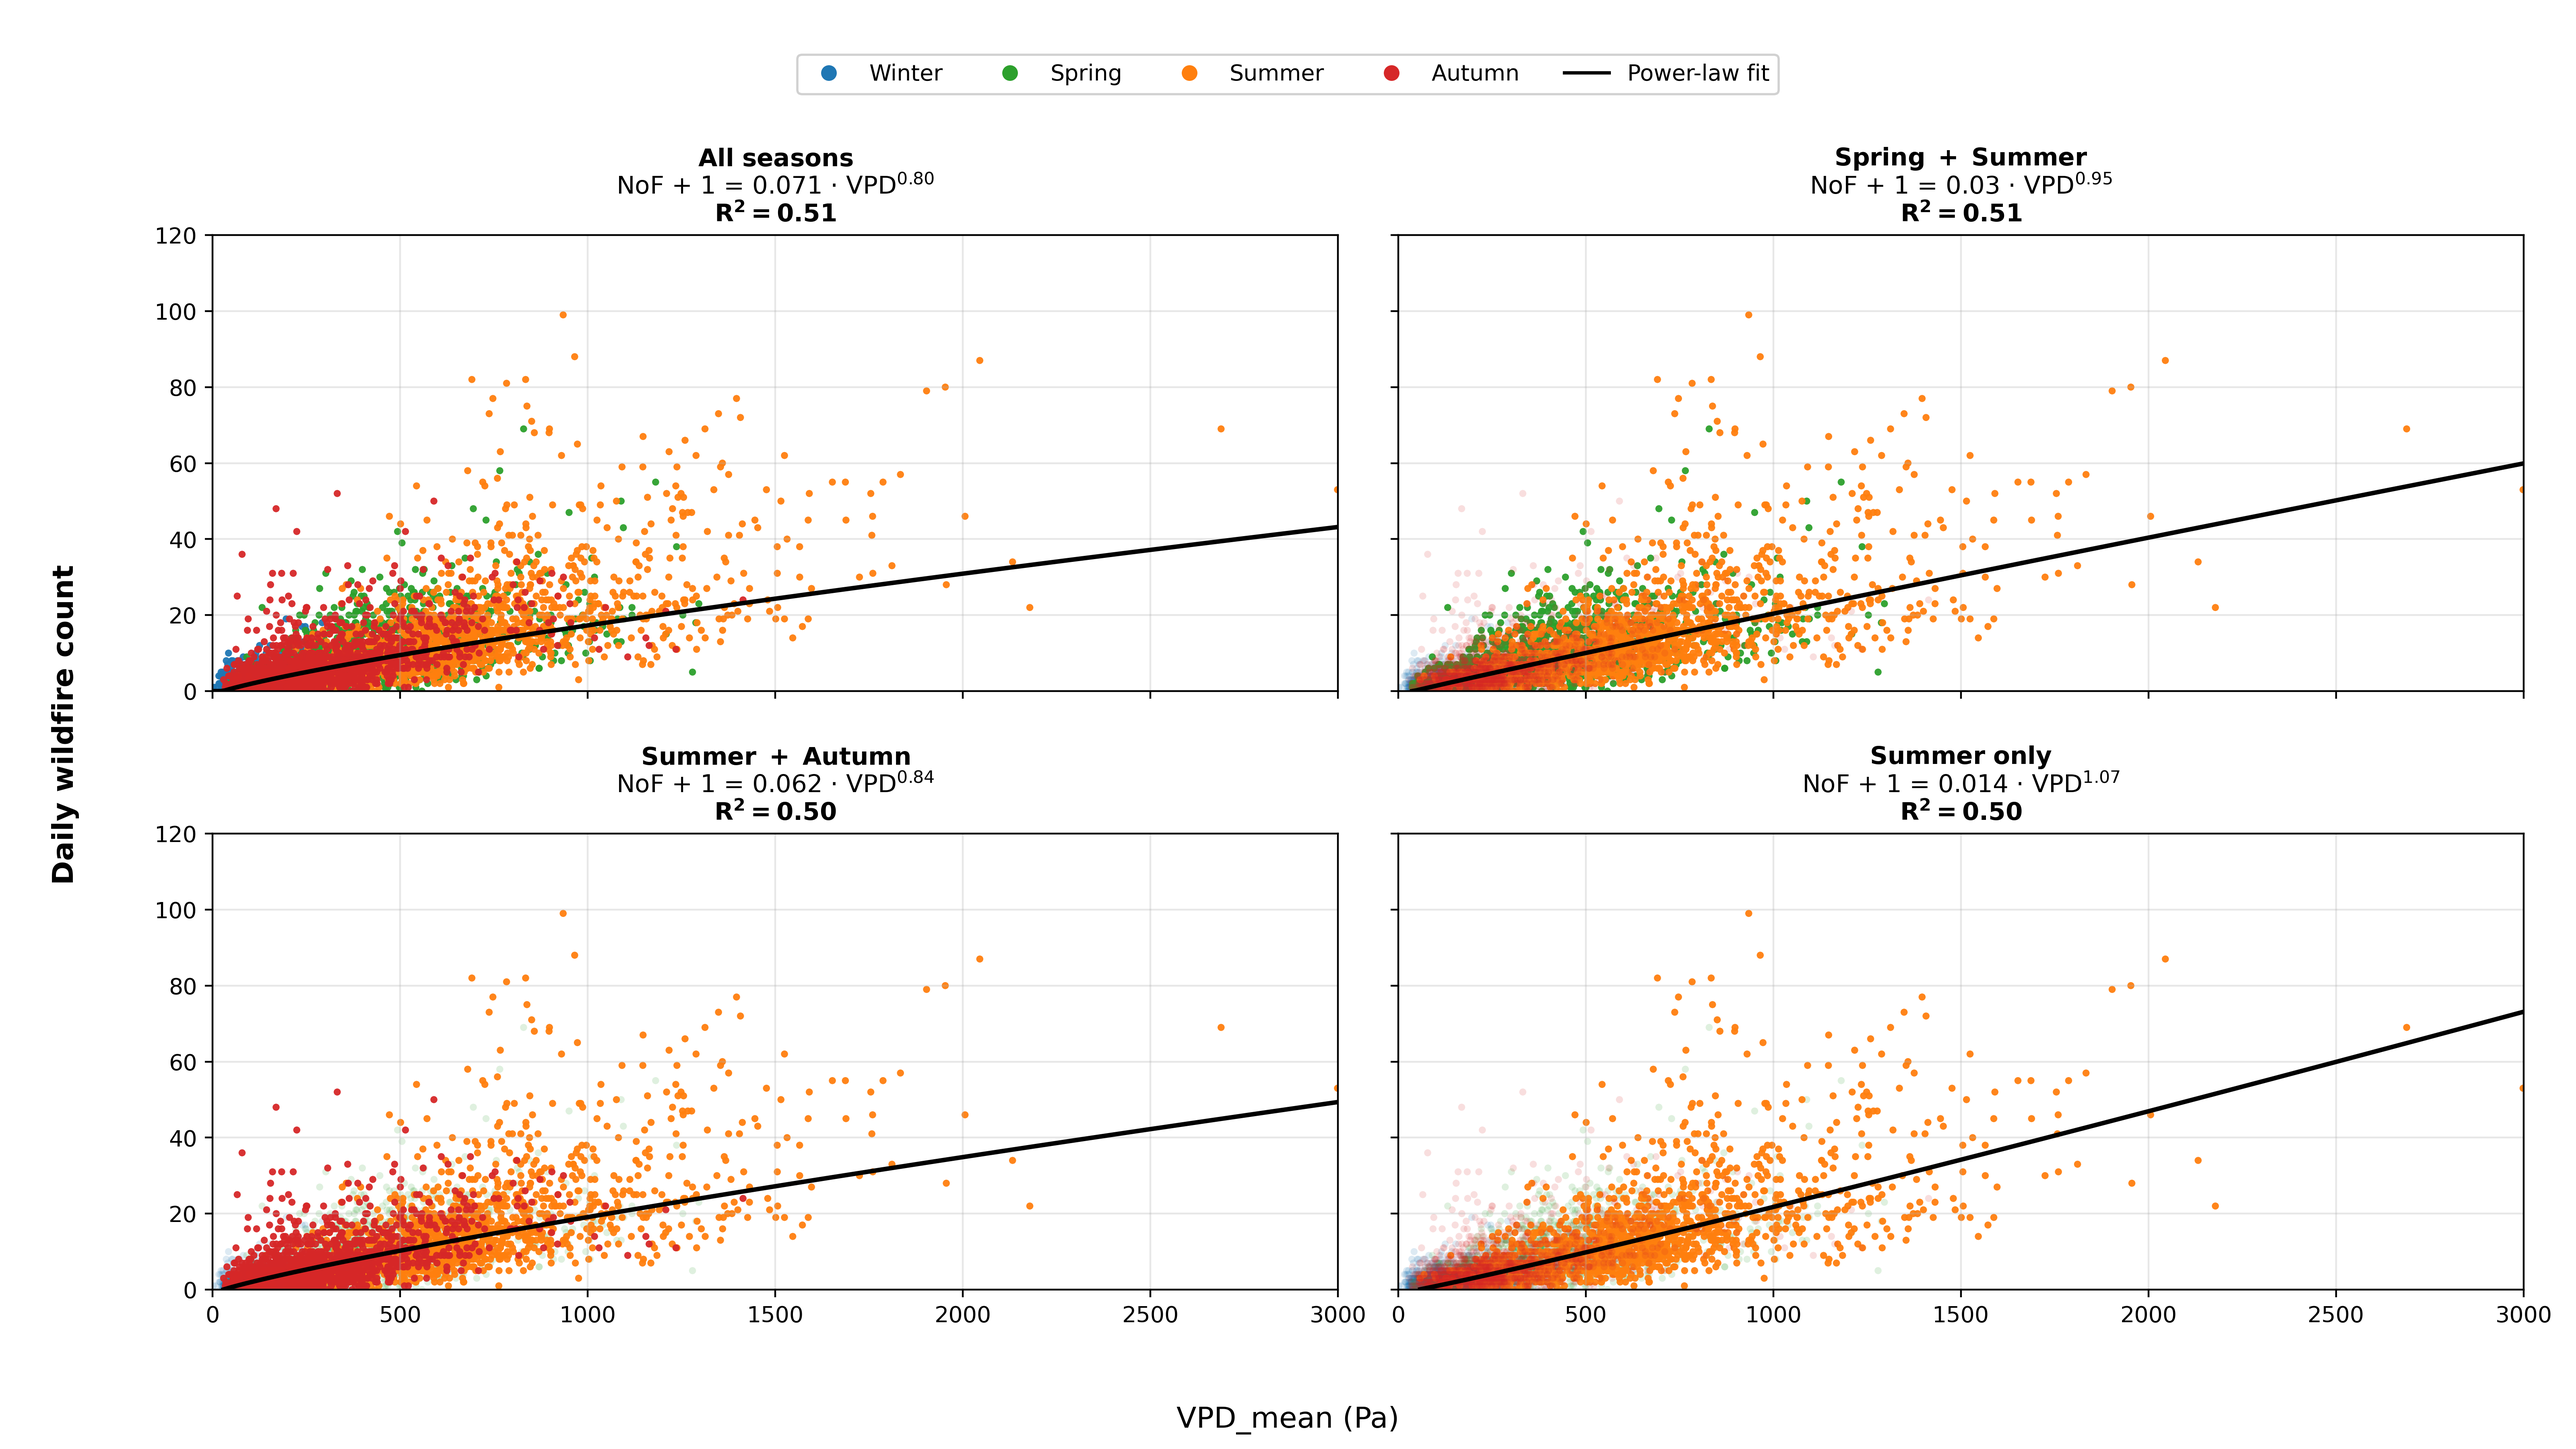
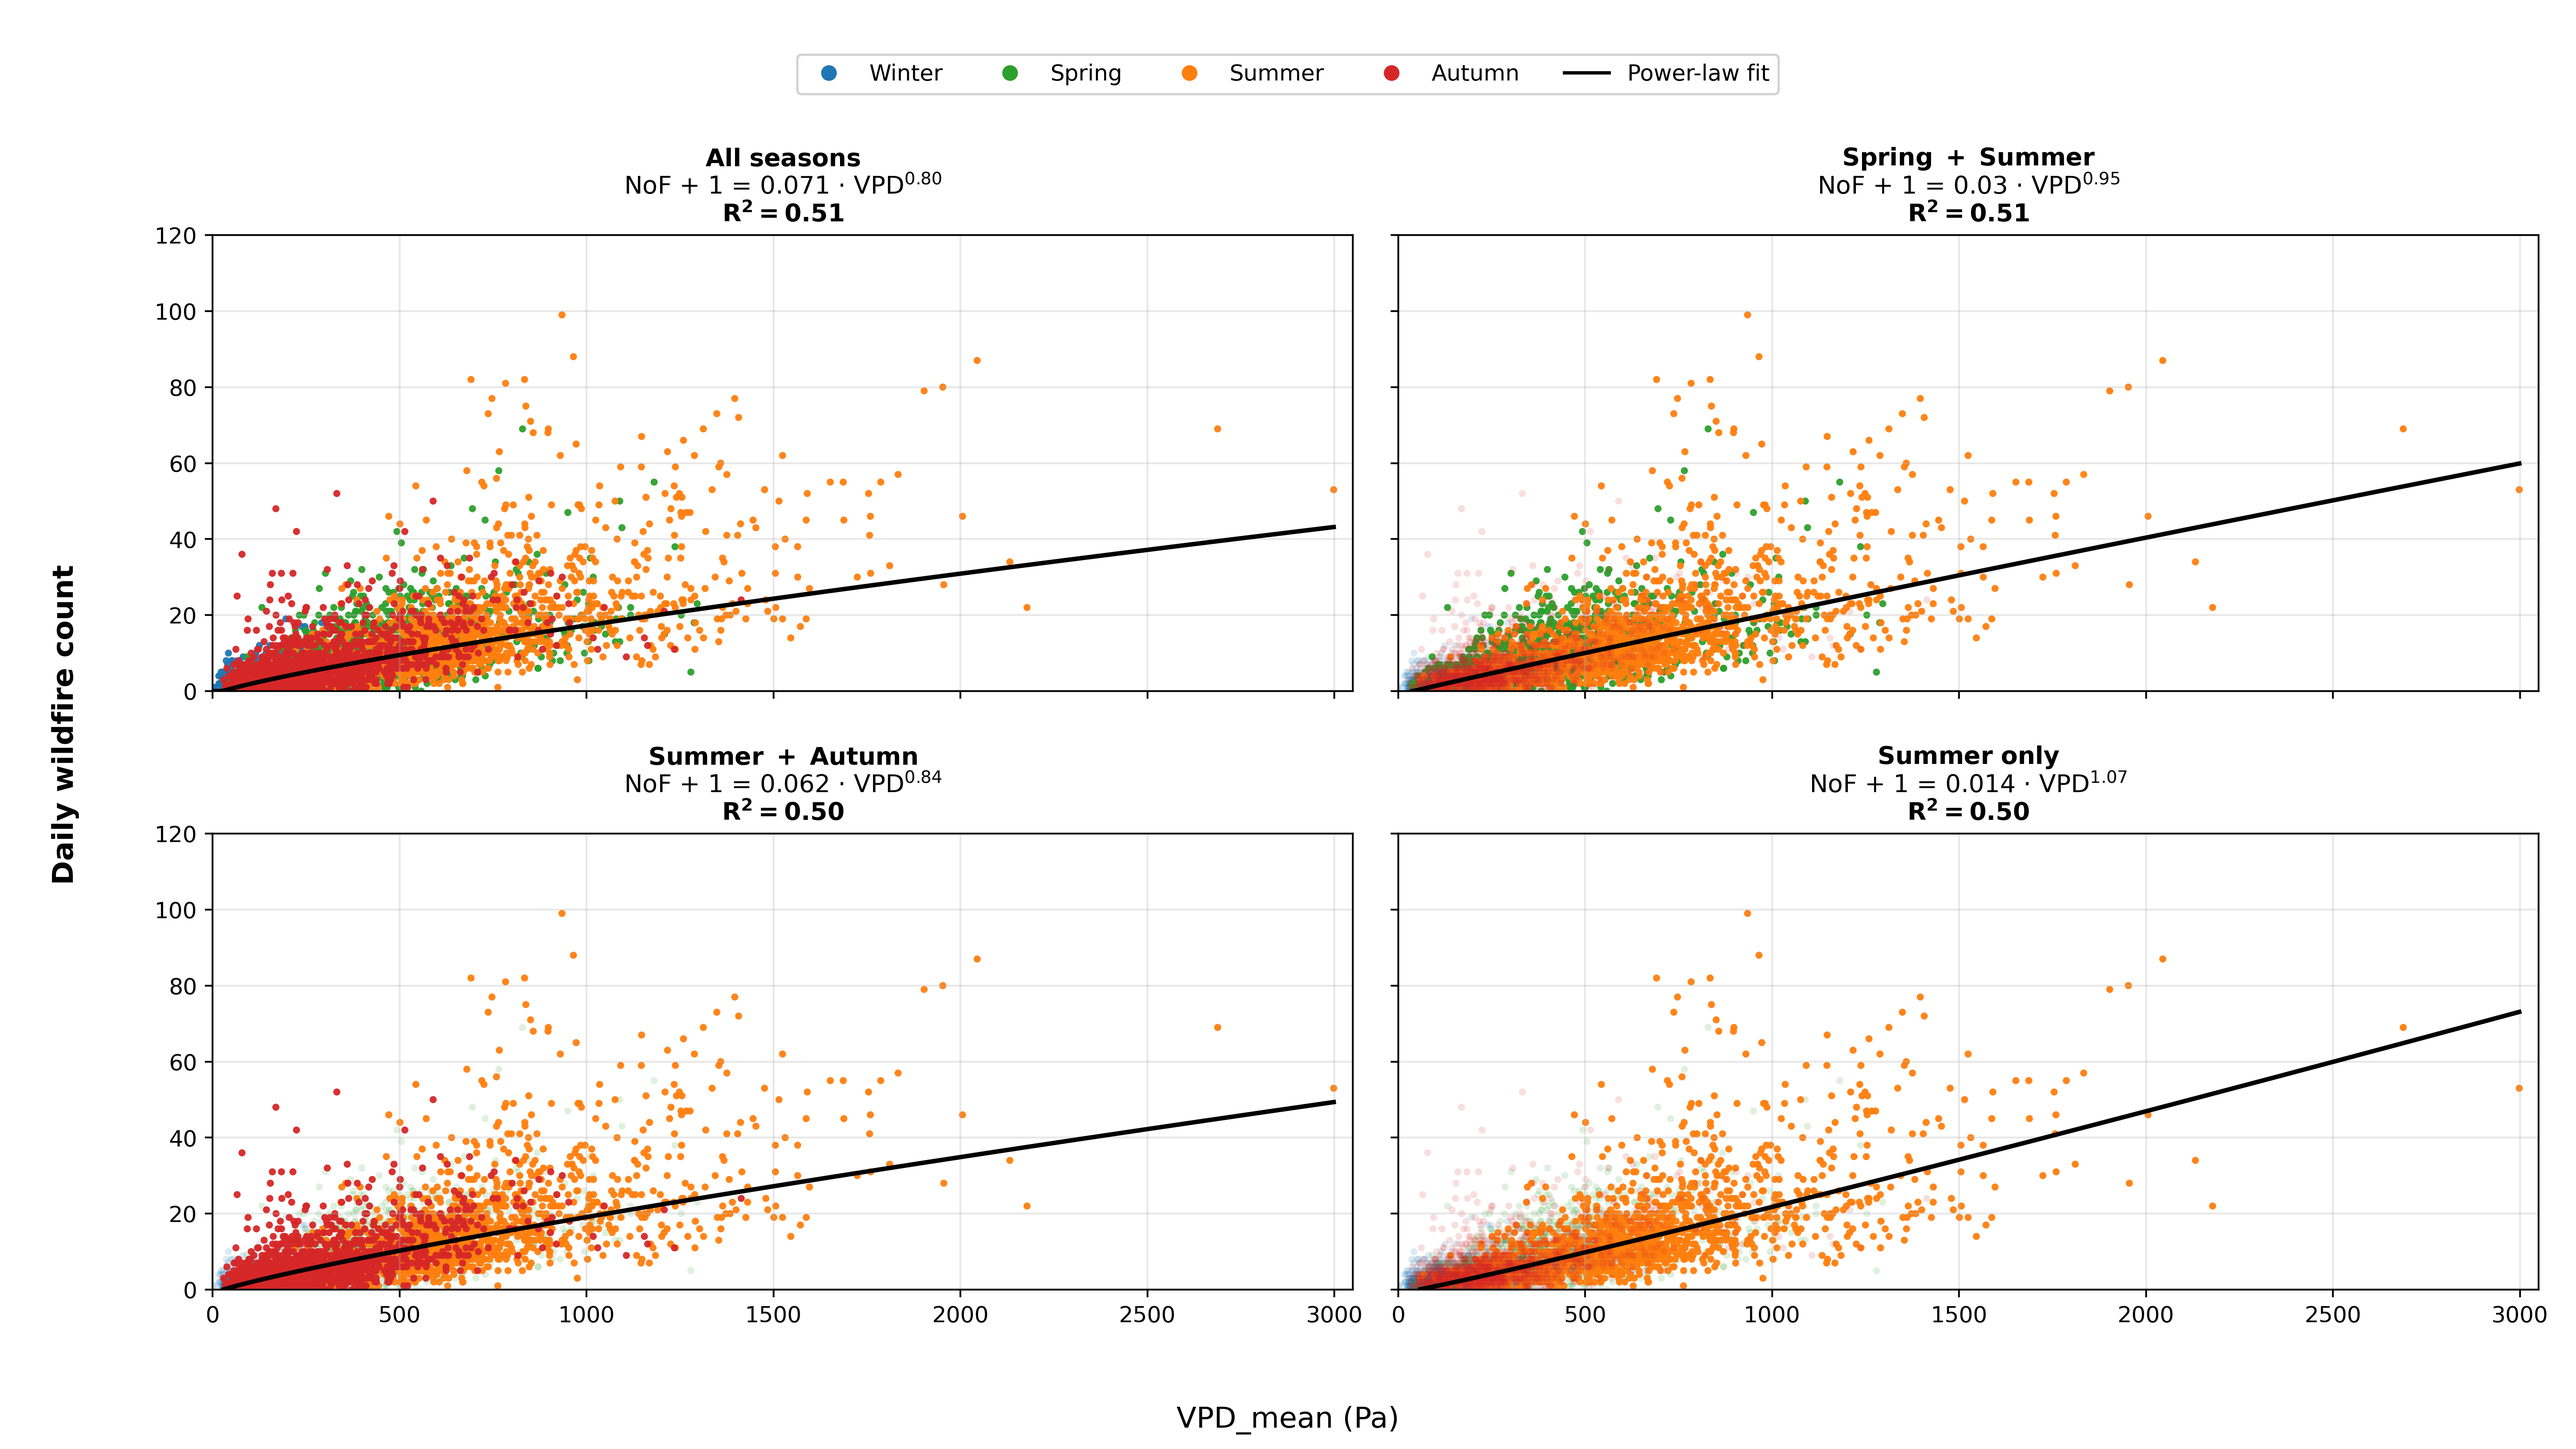
Add pump hours vs VPD power-law analysis and plots
Added script and output plot for analyzing daily pump hours versus VPD using power-law fits across seasons. Updated axis limits in fire vs VPD plotting scripts and refreshed related output images for consistency.

diff --git a/data/graph_generation/2_pump_hrs_vs_vpd/1_vpd_studies/plot_pump_hours_vs_vpd.py b/data/graph_generation/2_pump_hrs_vs_vpd/1_vpd_studies/plot_pump_hours_vs_vpd.py
@@ -6,7 +6,7 @@ from datetime import datetime
 import matplotlib.lines as mlines  # for custom legend entries
 
 # ==== CONFIGURATION ====
-BASE_DIR = Path("data/graph_generation/1_num_fires_vs_vpd")
+BASE_DIR = Path("data/graph_generation/2_pump_hrs_vs_vpd")
 YEARS = list(range(2009, 2025))  # 2009–2024 inclusive
 # =======================
 
@@ -33,11 +33,11 @@ SEASON_COLORS = {
 
 
 def load_all_data() -> pd.DataFrame:
-    """Load all yearly merged weather + fire CSV files into one DataFrame."""
+    """Load all yearly merged weather + pump CSV files into one DataFrame."""
     dfs = []
 
     for year in YEARS:
-        file = BASE_DIR / f"daily_weather_fire_{year}.csv"
+        file = BASE_DIR / f"daily_weather_pump_{year}.csv"
         if not file.exists():
             print(f"⚠ Missing {file}")
             continue
@@ -57,7 +57,7 @@ def load_all_data() -> pd.DataFrame:
     return df_all
 
 
-def fit_power_law(vpd: np.ndarray, fires: np.ndarray):
+def fit_power_law(vpd: np.ndarray, pumps: np.ndarray):
     """
     Fit a power law:
 
@@ -70,12 +70,12 @@ def fit_power_law(vpd: np.ndarray, fires: np.ndarray):
     Returns a, b, R2 (computed in log space).
     """
     vpd = np.asarray(vpd, dtype=float)
-    fires = np.asarray(fires, dtype=float)
+    pumps = np.asarray(pumps, dtype=float)
 
-    # need positive VPD for the log; keep ALL fire counts (including zeros)
-    mask = (vpd > 0) & ~np.isnan(fires)
+    # need positive VPD for the log; keep ALL pump counts (including zeros)
+    mask = (vpd > 0) & ~np.isnan(pumps)
     x = vpd[mask]
-    y = fires[mask]
+    y = pumps[mask]
 
     if len(x) < 2:
         raise RuntimeError("Not enough data points for power law fit.")
@@ -98,7 +98,7 @@ def fit_power_law(vpd: np.ndarray, fires: np.ndarray):
 
 def plot_seasonal_power_laws(df: pd.DataFrame):
     vpd_all = df["VPD_mean"].values.astype(float)
-    fires_all = df["fire_count"].values.astype(float)
+    pumps_all = df["pump_hours"].values.astype(float)
     seasons = df["season"].values
 
     # define the four fitting scenarios
@@ -117,23 +117,23 @@ def plot_seasonal_power_laws(df: pd.DataFrame):
     # Set axis limits
     for ax in axes:
         ax.set_xlim(0, 3050)
-        ax.set_ylim(0, 120)
+        ax.set_ylim(0, 1750)
 
     for ax, (title, subset_mask) in zip(axes, scenarios):
         # which points actually participate in the fit?
-        fit_mask = subset_mask & (vpd_all > 0) & ~np.isnan(fires_all)
+        fit_mask = subset_mask & (vpd_all > 0) & ~np.isnan(pumps_all)
 
         # fit power law on the participating subset
         vpd_fit_data = vpd_all[fit_mask]
-        fires_fit_data = fires_all[fit_mask]
-        a_pl, b_pl, r2 = fit_power_law(vpd_fit_data, fires_fit_data)
+        pumps_fit_data = pumps_all[fit_mask]
+        a_pl, b_pl, r2 = fit_power_law(vpd_fit_data, pumps_fit_data)
 
         # X-range for curve in this subplot (based on used points)
         vpd_min = np.nanmin(vpd_fit_data)
         vpd_max = np.nanmax(vpd_fit_data)
         vpd_curve = np.linspace(vpd_min, vpd_max, 300)
-        fires_curve = a_pl * vpd_curve ** b_pl - 1.0
-        fires_curve = np.clip(fires_curve, 0, None)
+        pumps_curve = a_pl * vpd_curve ** b_pl - 1.0
+        pumps_curve = np.clip(pumps_curve, 0, None)
 
         # ---- scatter points by season with different alpha depending on fit participation ----
         for season_name, color in SEASON_COLORS.items():
@@ -145,7 +145,7 @@ def plot_seasonal_power_laws(df: pd.DataFrame):
             # low-alpha for points not used in this fit
             ax.scatter(
                 vpd_all[unused],
-                fires_all[unused],
+                pumps_all[unused],
                 s=10,
                 alpha=0.15,
                 color=color,
@@ -155,7 +155,7 @@ def plot_seasonal_power_laws(df: pd.DataFrame):
             # high-alpha for points used in this fit
             ax.scatter(
                 vpd_all[used],
-                fires_all[used],
+                pumps_all[used],
                 s=10,
                 alpha=0.95,
                 color=color,
@@ -165,7 +165,7 @@ def plot_seasonal_power_laws(df: pd.DataFrame):
         # plot power-law curve
         ax.plot(
             vpd_curve,
-            fires_curve,
+            pumps_curve,
             color="black",
             linewidth=2,
         )
@@ -180,7 +180,7 @@ def plot_seasonal_power_laws(df: pd.DataFrame):
 
     # shared labels
     fig.supxlabel("VPD_mean (Pa)", fontsize=13)
-    fig.supylabel("Daily wildfire count", fontsize=13, fontweight="bold")
+    fig.supylabel("Daily Pump hours", fontsize=13, fontweight="bold")
     # ----- global legend for seasons + curve -----
     season_handles = [
         mlines.Line2D([], [], color=color, marker="o", linestyle="None",
@@ -199,7 +199,7 @@ def plot_seasonal_power_laws(df: pd.DataFrame):
 
     plt.tight_layout(rect=[0.03, 0.03, 1, 0.93])
 
-    out_path = BASE_DIR / "1_vpd_studies/fires_vs_vpd_powerlaw.png"
+    out_path = BASE_DIR / "1_vpd_studies/pumps_vs_vpd_powerlaw.png"
     out_path.parent.mkdir(parents=True, exist_ok=True)
     plt.savefig(out_path, dpi=400)
     print(f"Saved seasonal power-law figure to: {out_path}")
@@ -208,7 +208,7 @@ def plot_seasonal_power_laws(df: pd.DataFrame):
 
 
 def main():
-    print("Loading merged weather and fire datasets...")
+    print("Loading merged weather and pump datasets...")
     df = load_all_data()
 
     print("Plotting seasonal power-law fits...")

diff --git a/data/graph_generation/1_num_fires_vs_vpd/1_vpd_studies/plot_num_fires_vs_vpd_quadratic.py b/data/graph_generation/1_num_fires_vs_vpd/1_vpd_studies/plot_num_fires_vs_vpd_quadratic.py
@@ -154,7 +154,7 @@ def plot_seasonal_quadratic_loglog(df: pd.DataFrame):
     
     # Set axis limits
     for ax in axes:
-        ax.set_xlim(0, 3000)
+        ax.set_xlim(0, 3050)
         ax.set_ylim(0, 120)
 
     # Store all scatter artists and their corresponding data for hover

diff --git a/data/graph_generation/1_num_fires_vs_vpd/1_vpd_studies/plot_num_fires_vs_vpd_quadratic_weighted.py b/data/graph_generation/1_num_fires_vs_vpd/1_vpd_studies/plot_num_fires_vs_vpd_quadratic_weighted.py
@@ -211,7 +211,7 @@ def plot_seasonal_quadratic_loglog(df: pd.DataFrame):
     
     # Set axis limits
     for ax in axes:
-        ax.set_xlim(0, 3000)
+        ax.set_xlim(0, 3050)
         ax.set_ylim(0, 120)
 
     # Store all scatter artists and their corresponding data for hover
